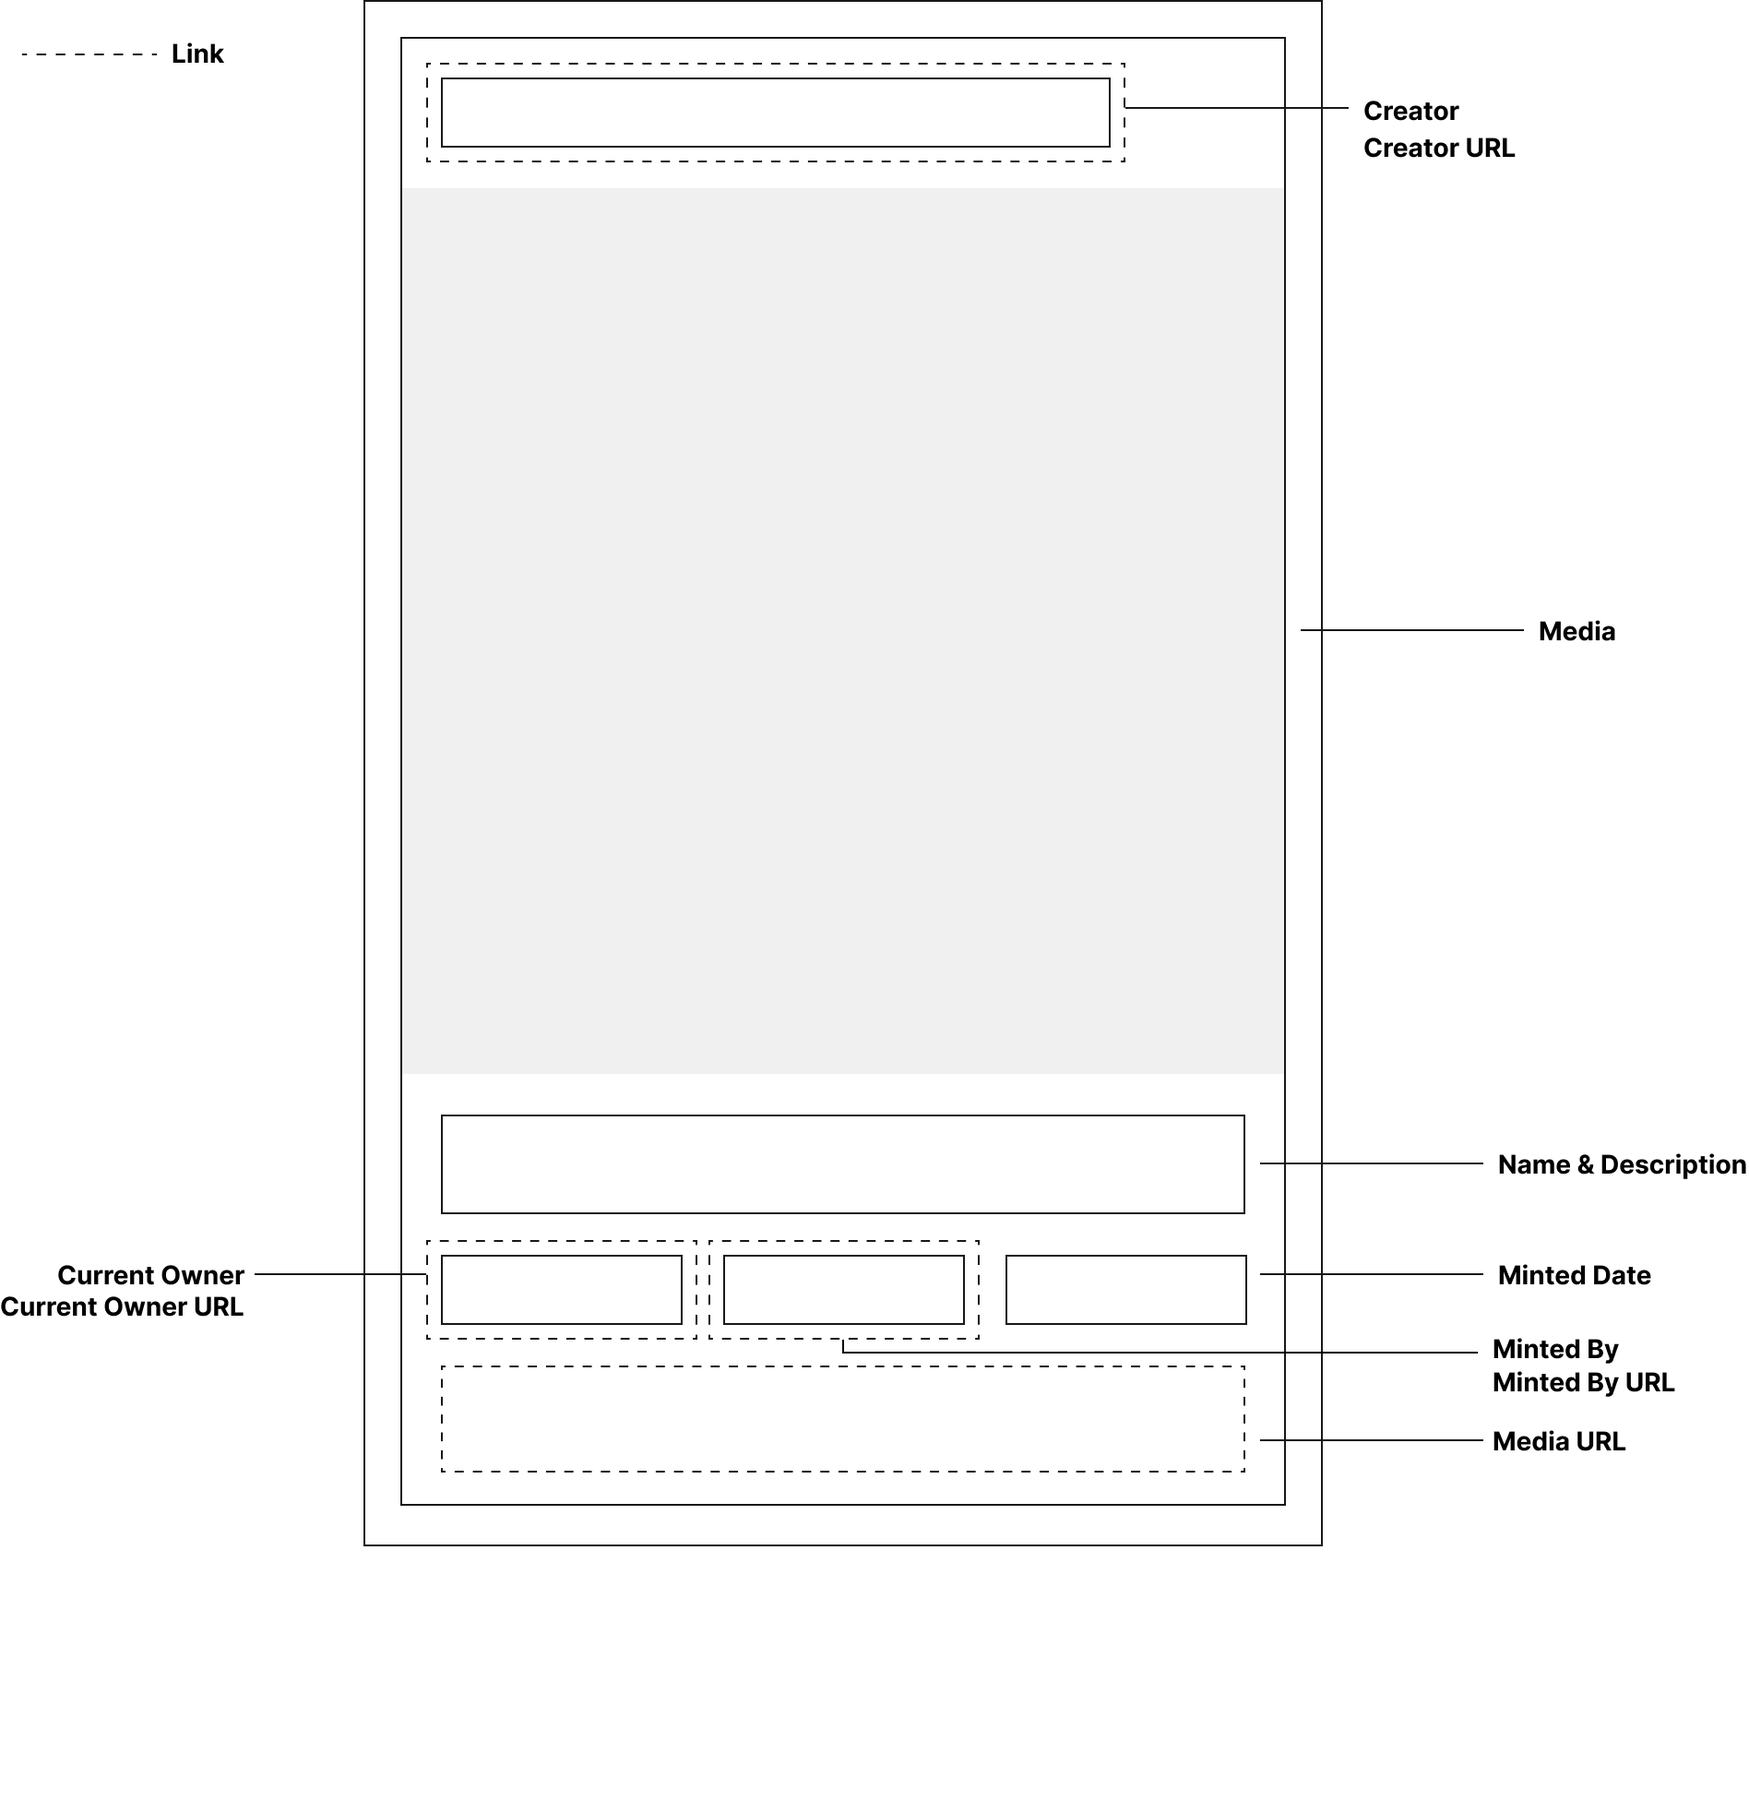
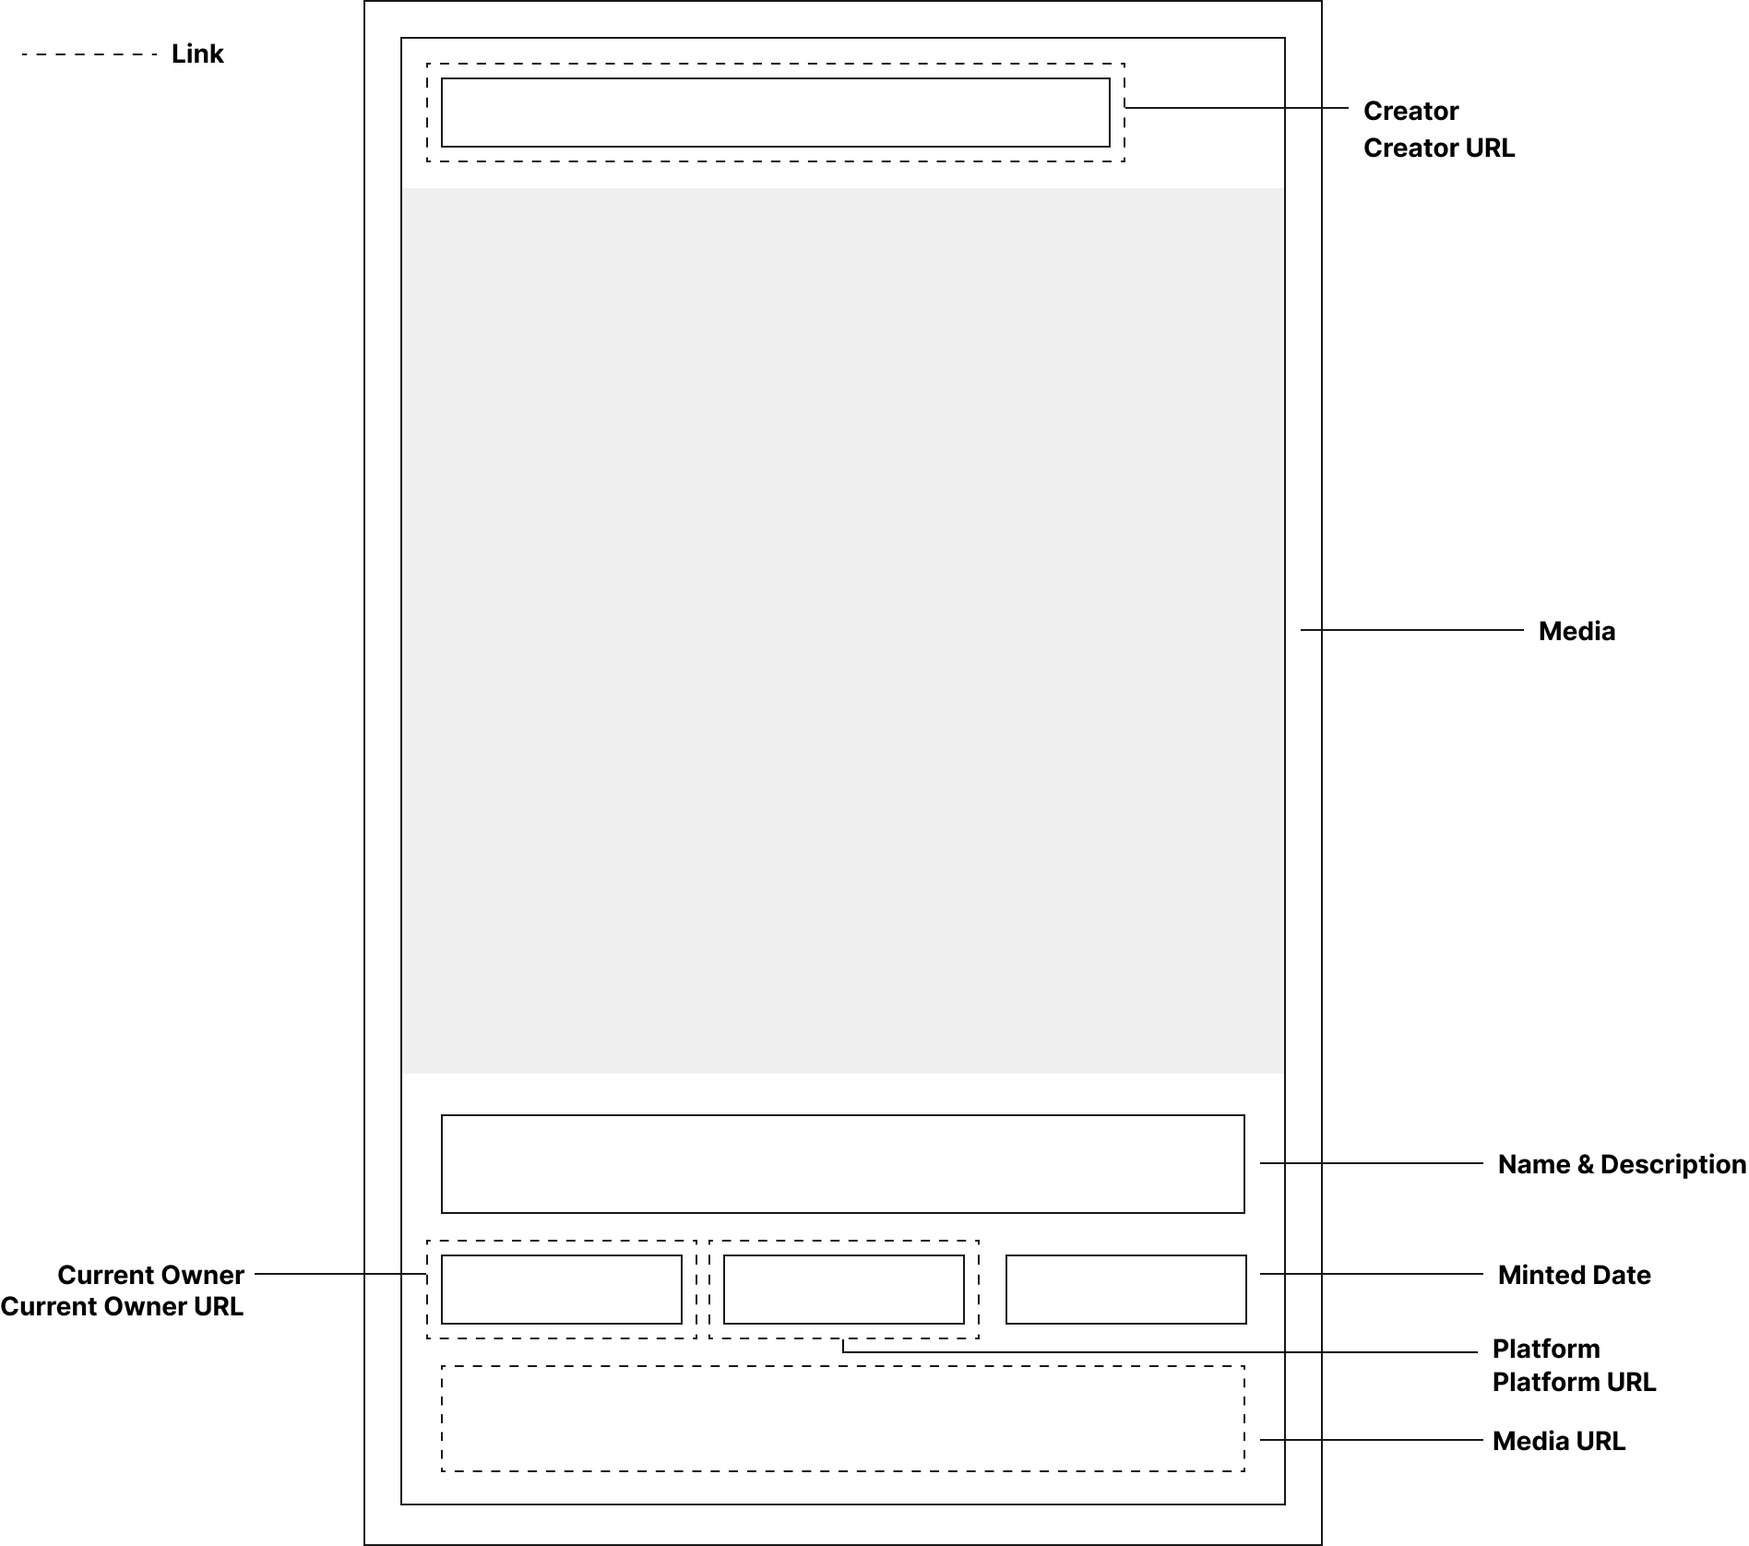
Finish updating docs

diff --git a/packages/site/pages/docs.js b/packages/site/pages/docs.js
@@ -188,7 +188,7 @@ export default function Docs() {
           next section.
         </Box>
 
-        <Box as="img" src="/nfte.png" css={{ maxWidth: "100%", mb: "@2" }} />
+        <Box as="img" src="/nfte.png" css={{ maxWidth: "100%", mb: "@4" }} />
 
         <Box css={{ mb: "@3" }}>
           <Box as="p" css={{ fontWeight: 700, fontSize: "@2", m: 0 }}>
@@ -208,17 +208,11 @@ export default function Docs() {
           </Box>
           <Box as="p" css={{ m: 0, mb: "@1" }}>
             <Box as="span" css={{ fontWeight: 700 }}>
-              Platorm
+              Platform
             </Box>{" "}
             - will show the creators platform username if a known contract file
-            is found and the <InlineCode>creatorOf</InlineCode> is set. The
-            property takes a function and the following data is passed as the
-            argument{" "}
-            <InlineCode>{`{ contract,
-          tokenId,
-          metadata,
-          creatorOfAddress }`}</InlineCode>
-            .
+            is found and the <InlineCode>getContractData</InlineCode> function
+            returns a value for<InlineCode>creatorOf</InlineCode>.
           </Box>
         </Box>
 
@@ -237,14 +231,8 @@ export default function Docs() {
               Platform
             </Box>{" "}
             - links to the creators profile on the platform if a known contract
-            file is found and a value is present for{" "}
-            <InlineCode>creatorOfPageUrl</InlineCode>. The property takes a
-            function and the following data is passed as the argument{" "}
-            <InlineCode>{`{ contract,
-          tokenId,
-          metadata,
-          creatorOfAddress }`}</InlineCode>
-            .
+            file is found and the <InlineCode>getContractData</InlineCode>{" "}
+            function returns a value for<InlineCode>creatorOfUrl</InlineCode>.
           </Box>
         </Box>
 
@@ -263,15 +251,15 @@ export default function Docs() {
             <Box as="span" css={{ fontWeight: 700 }}>
               Platform
             </Box>{" "}
-            - will use media from another location in the metadata if a known
-            contract file is found and <InlineCode>mediaPath</InlineCode> is set
-            to a corresponding value in the metadata.
+            - will be the URL to the NFT's media file if a known contract file
+            is found and the <InlineCode>getContractData</InlineCode> function
+            returns a value for<InlineCode>mediaUrl</InlineCode>.
           </Box>
         </Box>
 
         <Box css={{ mb: "@3" }}>
           <Box as="p" css={{ fontWeight: 700, fontSize: "@2", m: 0 }}>
-            Media URL
+            MediaPageURL
           </Box>
           <Box as="p" css={{ m: 0, mb: "@1" }}>
             <Box as="span" css={{ fontWeight: 700 }}>
@@ -283,15 +271,10 @@ export default function Docs() {
             <Box as="span" css={{ fontWeight: 700 }}>
               Platform
             </Box>{" "}
-            - links to the media profile on the platform if a known contract
-            file is found and a value is present for{" "}
-            <InlineCode>mediaPageUrl</InlineCode>. The property takes a function
-            and the following data is passed as the argument{" "}
-            <InlineCode>{`{ contract,
-          tokenId,
-          metadata,
-          creatorOfAddress }`}</InlineCode>
-            .
+            - will be the URL to the NFT's page on the platform if a known
+            contract file is found and the{" "}
+            <InlineCode>getContractData</InlineCode> function returns a value
+            for<InlineCode>mediaPageUrl</InlineCode>.
           </Box>
         </Box>
 
@@ -306,6 +289,14 @@ export default function Docs() {
             - will use the ERC-721 standard <InlineCode>name</InlineCode>{" "}
             property from the metadata
           </Box>
+          <Box as="p" css={{ m: 0, mb: "@1" }}>
+            <Box as="span" css={{ fontWeight: 700 }}>
+              Platform
+            </Box>{" "}
+            - will be the name of the NFT if a known contract file is found. The{" "}
+            <InlineCode>getContractData</InlineCode> function should return a
+            value for<InlineCode>name</InlineCode>.
+          </Box>
         </Box>
 
         <Box css={{ mb: "@3" }}>
@@ -316,8 +307,16 @@ export default function Docs() {
             <Box as="span" css={{ fontWeight: 700 }}>
               Base data
             </Box>{" "}
-            - will use path <InlineCode>description</InlineCode> property from
-            the metadata
+            - will use the ERC-721 standard <InlineCode>description</InlineCode>{" "}
+            property from the metatdata.
+          </Box>
+          <Box as="p" css={{ m: 0, mb: "@1" }}>
+            <Box as="span" css={{ fontWeight: 700 }}>
+              Platform
+            </Box>{" "}
+            - will be the description of the NFT if a known contract file is
+            found. The <InlineCode>getContractData</InlineCode> function should
+            return a value for<InlineCode>description</InlineCode>.
           </Box>
         </Box>
 
@@ -337,6 +336,14 @@ export default function Docs() {
             </Box>{" "}
             - will show the owners ENS name if one exists on the address
           </Box>
+          <Box as="p" css={{ m: 0, mb: "@1" }}>
+            <Box as="span" css={{ fontWeight: 700 }}>
+              Platform
+            </Box>{" "}
+            - will show the owners platform username if a known contract file is
+            found and the <InlineCode>getContractData</InlineCode> function
+            returns a value for<InlineCode>ownerOf</InlineCode>.
+          </Box>
         </Box>
 
         <Box css={{ mb: "@3" }}>
@@ -349,11 +356,21 @@ export default function Docs() {
             </Box>{" "}
             - links to the current owners address on Etherscan
           </Box>
+
+          <Box as="p" css={{ m: 0, mb: "@1" }}>
+            <Box as="span" css={{ fontWeight: 700 }}>
+              Platform
+            </Box>{" "}
+            - will link to the current owners profile on the platform if a known
+            contract file is found and the{" "}
+            <InlineCode>getContractData</InlineCode> function returns a value
+            for<InlineCode>ownerOfUrl</InlineCode>.
+          </Box>
         </Box>
 
         <Box css={{ mb: "@3" }}>
           <Box as="p" css={{ fontWeight: 700, fontSize: "@2", m: 0 }}>
-            Minted By
+            Platform
           </Box>
           <Box as="p" css={{ m: 0, mb: "@1" }}>
             <Box as="span" css={{ fontWeight: 700 }}>
@@ -366,15 +383,15 @@ export default function Docs() {
             <Box as="span" css={{ fontWeight: 700 }}>
               Platform
             </Box>{" "}
-            - will use the platform name specified in the known contracts file{" "}
-            <InlineCode>name</InlineCode> property if a known contracts file is
-            found
+            - will show the platform name if a known contract file is found and
+            the <InlineCode>getContractData</InlineCode> function returns a
+            value for<InlineCode>platform</InlineCode>.
           </Box>
         </Box>
 
         <Box css={{ mb: "@3" }}>
           <Box as="p" css={{ fontWeight: 700, fontSize: "@2", m: 0 }}>
-            Minted By URL
+            Platform URL
           </Box>
           <Box as="p" css={{ m: 0, mb: "@1" }}>
             <Box as="span" css={{ fontWeight: 700 }}>
@@ -386,8 +403,9 @@ export default function Docs() {
             <Box as="span" css={{ fontWeight: 700 }}>
               Platform
             </Box>{" "}
-            - links to the platforms home page if a known contracts file is
-            found and contains the <InlineCode>homepage</InlineCode> property.
+            - will link to platforms homepage if a known contract file is found
+            and the <InlineCode>getContractData</InlineCode> function returns a
+            value for<InlineCode>platformUrl</InlineCode>.
           </Box>
         </Box>
 
@@ -468,7 +486,8 @@ export default function Docs() {
         </Box>
 
         <Box css={{ m: 0, mb: "@3" }}>
-          2. The contents can be any of the following properties
+          2. The contents should be an object that contains the following
+          properties
           <Box as="ul" css={{ pl: "@3", mb: "@4", mt: "@1" }}>
             <Box as="li" css={{ mb: "@1" }}>
               <InlineCode>addresses</InlineCode> -{" "}
@@ -476,62 +495,14 @@ export default function Docs() {
               contract addresses that mint the NFTs for your project
             </Box>
             <Box as="li" css={{ mb: "@1" }}>
-              <InlineCode>name</InlineCode> - <strong>string</strong> The name
-              of the project or platform as you would like it displayed in the
-              embed
+              <InlineCode>abi</InlineCode> - <strong>string</strong> If the
+              contract extends the ERC-721 functionality you should upload the
+              abi here.
             </Box>
             <Box as="li" css={{ mb: "@1" }}>
-              <InlineCode>homepage</InlineCode> - <strong>string</strong> The
-              homepage URL of your project or platform
-            </Box>
-            <Box as="li" css={{ mb: "@1" }}>
-              <InlineCode>creatorOf</InlineCode> -{" "}
-              <strong>
-                function{" "}
-                {`<{ contract,
-          tokenId,
-          metadata,
-          creatorOfAddress }>`}
-              </strong>{" "}
-              Should return the name of the creator on the project or platform
-            </Box>
-            <Box as="li" css={{ mb: "@1" }}>
-              <InlineCode>creatorOfPageUrl</InlineCode> -{" "}
-              <strong>
-                function{" "}
-                {`<{ contract,
-          tokenId,
-          metadata,
-          creatorOfAddress }>`}
-              </strong>{" "}
-              Should return the url of the creators profile page on the project
-              or platform
-            </Box>
-            <Box as="li" css={{ mb: "@1" }}>
-              <InlineCode>mediaUrl</InlineCode> -{" "}
-              <strong>
-                function{" "}
-                {`<{ contract,
-          tokenId,
-          metadata,
-          creatorOfAddress }>`}
-              </strong>{" "}
-              Should return the url of the media file. If you are using the
-              ERC-721 <InlineCode>image</InlineCode> standard property this
-              property is not required
-            </Box>
-
-            <Box as="li" css={{ mb: "@1" }}>
-              <InlineCode>mediaPageUrl</InlineCode> -{" "}
-              <strong>
-                function{" "}
-                {`<{ contract,
-          tokenId,
-          metadata,
-          creatorOfAddress }>`}
-              </strong>{" "}
-              Should return the url of the tokens page on the project or
-              platform
+              <InlineCode>getContractData</InlineCode> -{" "}
+              <strong>function</strong> A function that returns the values used
+              in the embed.
             </Box>
           </Box>
         </Box>
@@ -551,52 +522,69 @@ export default function Docs() {
         </Box>
 
         <Box as="p" css={{ m: 0, mb: "@3" }}>
-          <strong>(Optional)</strong> If your contract is a non-standard NFT
-          contract e.g CryptoPunks, then you can still use NFTE, first off add
-          the ABI at
-          <InlineCode>
-            <Box
-              as="a"
-              href="https://github.com/sammdec/nfte/tree/main/packages/site/abis"
-              css={{ textDecoration: "underline", color: "currentColor" }}
-            >
-              packages/site/abis
-            </Box>
-          </InlineCode>{" "}
-          folder, export it to the index.js file and add the{" "}
-          <InlineCode>abi</InlineCode> property that matches the name of your
-          export.
+          4. The next step is to use the{" "}
+          <InlineCode>getContractData</InlineCode> function to get the various
+          pieces of information that are needed, the function contains 2
+          ethers.js instances, <InlineCode>Contract</InlineCode> uses the
+          Cloudflare provider and should be used for the majority of functions.{" "}
+          <InlineCode>ContractHistorical</InlineCode> uses an Infura provider
+          and should be used for occassions where past block history is needed.
+          The <InlineCode>tokenId</InlineCode> is also passed in as a string
+          value. The function should return an object with the following
+          properties.
         </Box>
 
         <Box as="p" css={{ m: 0, mb: "@3" }}>
-          The next step is to use the <InlineCode>getContractData</InlineCode>{" "}
-          function to get the various pieces of information that are needed the
-          function should return an object with the following properties.
+          <InlineCode>name</InlineCode> - This should be the name of the
+          creation
         </Box>
 
         <Box as="p" css={{ m: 0, mb: "@3" }}>
-          <InlineCode>tokenURI</InlineCode> - This should be a url that points
-          to the specific metadata of the tokenId
+          <InlineCode>description</InlineCode> - This should resolve to the
+          description if any
         </Box>
 
         <Box as="p" css={{ m: 0, mb: "@3" }}>
-          <InlineCode>ownerOfAddress</InlineCode> - This should be the Ethereum
-          address of the current owner of the token
+          <InlineCode>ownerOf</InlineCode> - This should be the Ethereum address
+          of the current owner of the token
         </Box>
 
         <Box as="p" css={{ m: 0, mb: "@3" }}>
-          <InlineCode>creatorOfAddress</InlineCode> - This should be the
-          Ethereum address of the creator of the token
+          <InlineCode>ownerOfUrl</InlineCode> - The url that points to the
+          owners profile on the platform
+        </Box>
+
+        <Box as="p" css={{ m: 0, mb: "@3" }}>
+          <InlineCode>creatorOf</InlineCode> - This should be the Ethereum
+          address of the creator of the token
+        </Box>
+
+        <Box as="p" css={{ m: 0, mb: "@3" }}>
+          <InlineCode>creatorOfUrl</InlineCode> - The url that points to the
+          creators profile on the platform
+        </Box>
+
+        <Box as="p" css={{ m: 0, mb: "@3" }}>
+          <InlineCode>mediaUrl</InlineCode> - The url of the media file
+        </Box>
+
+        <Box as="p" css={{ m: 0, mb: "@3" }}>
+          <InlineCode>mediaPageUrl</InlineCode> - The url of the media files
+          page on the platform
+        </Box>
+
+        <Box as="p" css={{ m: 0, mb: "@3" }}>
+          <InlineCode>platform</InlineCode> - The name of the platform
+        </Box>
+
+        <Box as="p" css={{ m: 0, mb: "@3" }}>
+          <InlineCode>platformUrl</InlineCode> - The url to the platforms
+          homepage
         </Box>
 
         <Box as="p" css={{ m: 0, mb: "@3" }}>
           <InlineCode>blockNumber</InlineCode> - The blockNumber when the token
           was minted
-        </Box>
-
-        <Box as="p" css={{ m: 0, mb: "@3" }}>
-          <InlineCode>timestamp</InlineCode> - A unix timestamp when the token
-          was minted.
         </Box>
 
         <Box as="p" css={{ m: 0, mb: "@3" }}>
@@ -608,19 +596,6 @@ export default function Docs() {
               css={{ textDecoration: "underline", color: "currentColor" }}
             >
               packages/site/utils/getNFTData.js
-            </Box>
-          </InlineCode>
-        </Box>
-
-        <Box as="p" css={{ m: 0, mb: "@3" }}>
-          An example of how CryptoPunks is integrated can be found here{" "}
-          <InlineCode>
-            <Box
-              as="a"
-              href="https://github.com/sammdec/nfte/tree/main/packages/site/knownContracts/cryptoPunks.js"
-              css={{ textDecoration: "underline", color: "currentColor" }}
-            >
-              packages/site/knownContracts/cryptoPunks.js
             </Box>
           </InlineCode>
         </Box>

diff --git a/packages/site/pages/index.js b/packages/site/pages/index.js
@@ -69,7 +69,7 @@ export default function Home() {
           </Box>
           <Box css={{ width: "100%", fontWeight: 700 }}>Free</Box>
           <Box css={{ width: "100%", fontWeight: 700 }}>
-            Tiny size (&lt;3.5KB)
+            Tiny size (&lt;4KB)
           </Box>
           <Box css={{ width: "100%", fontWeight: 700 }}>Dark mode</Box>
         </Box>
